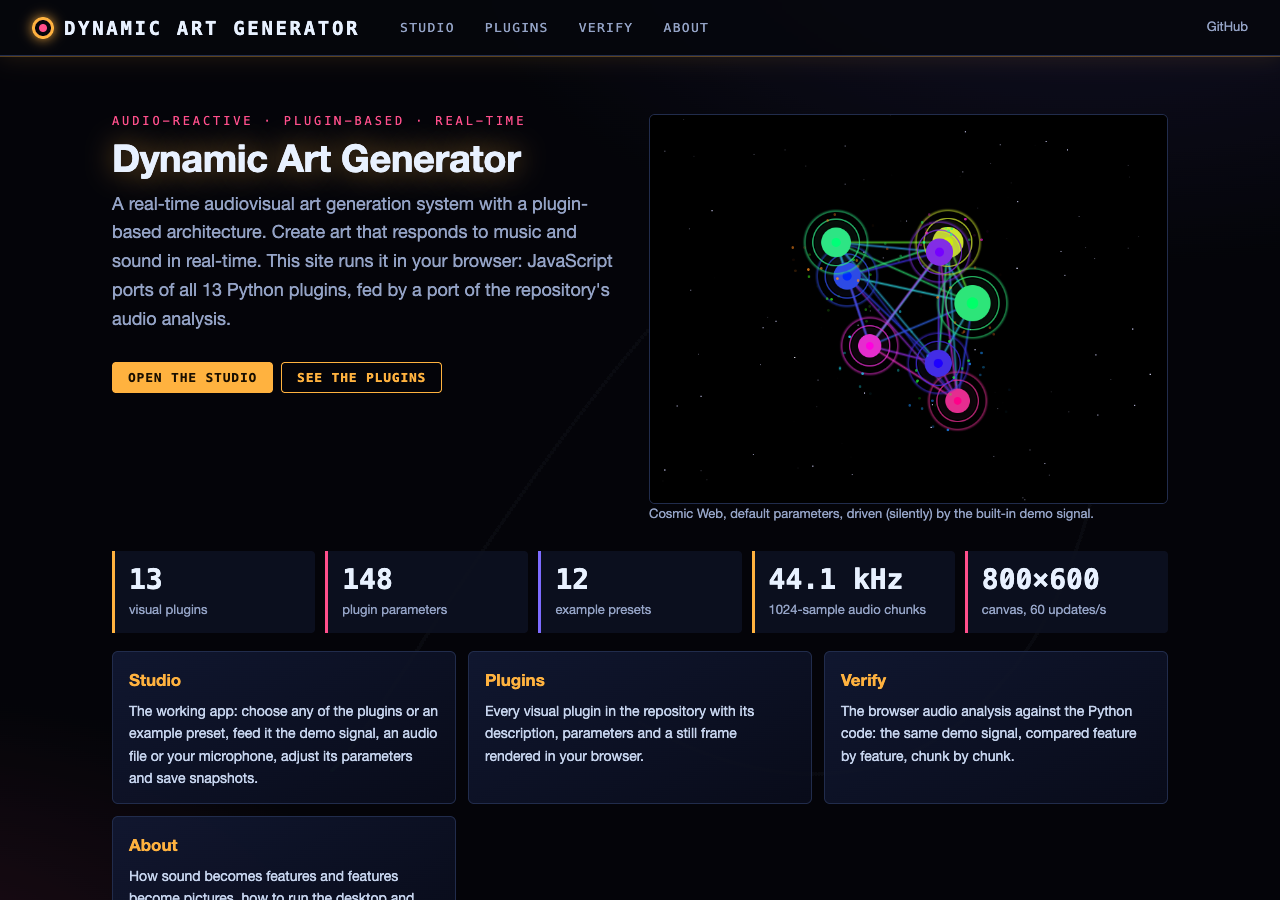
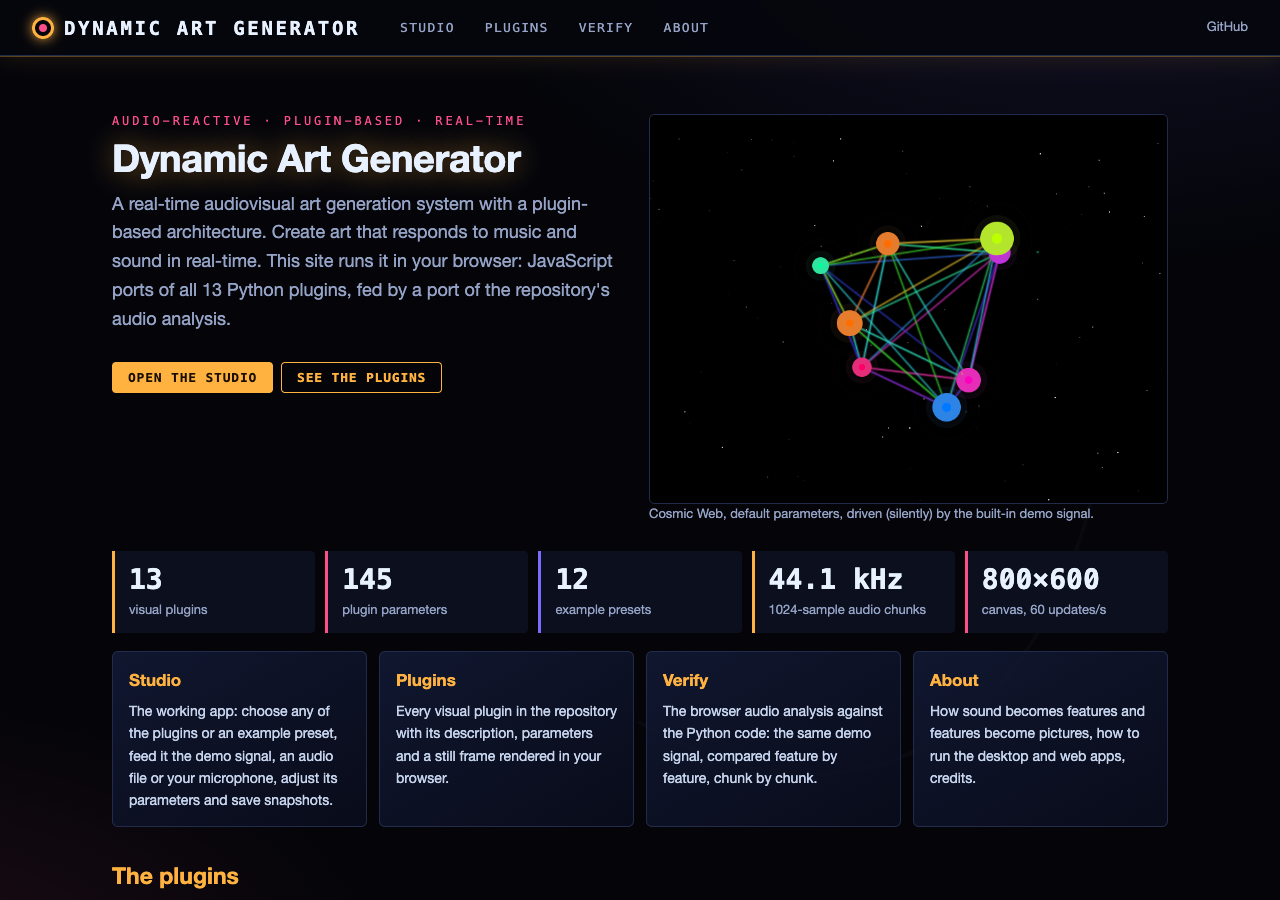
Update INTERFACE.md, SESSION_LOG.md and screenshots after the follow-up fixes

Changed region(s): [[0.0625, 0.7156, 0.9062, 1.0], [0.625, 0.2178, 0.8125, 0.4978]]

diff --git a/INTERFACE.md b/INTERFACE.md
@@ -18,7 +18,7 @@
 | `plugins/__init__.py` | `ArtPlugin` base class (update/render/get_parameters/set_parameter/reset), `PluginManager` |
 | `plugins/*.py` | 13 plugins: pendulum, particles, biomech_garden, cosmic_web, digital_spectre, ecosystem, musical_flock, neural_flow, noise_sphere, particle_fountain, quantum_jazz, rehoboam, space_junk |
 | `utils/audio_utils.py` | `AudioAnalyzer` (amplitude, rms, dominant frequency, bands, centroid, beats, onsets, tempo, ...), `DrumMachine`, `AudioSmoother` |
-| `utils/desktop_features.py` | `desktop_audio_features()`: what `AudioProcessor` hands the plugins (RMS amplitude, beat = RMS > 0.1, + AudioAnalyzer keys) |
+| `utils/desktop_features.py` | `desktop_audio_features()`: what `AudioProcessor` hands the plugins (RMS amplitude, adaptive AudioAnalyzer beat, + AudioAnalyzer keys) |
 | `utils/math_utils.py` | `Vector2D`, `ColorUtils`, `GeometryUtils` |
 | `config.json`, `example_presets.json` | Settings (canvas 800×600, 44.1 kHz, 1024-sample chunks); 12 presets |
 
@@ -44,7 +44,7 @@
 | File | Coverage |
 |------|----------|
 | `tests/test_web.py` | API, static build, node tests, fixtures current, every plugin ported, files < 500 lines (web) |
-| `tests/test_desktop_audio_features.py`, `test_particles_zero_life.py`, `test_plugin_fixes_*.py` (+ `plugin_test_utils.py`) | Regression tests for the fixed bugs |
+| `tests/test_desktop_audio_features.py`, `test_desktop_beats.py`, `test_particles_zero_life.py`, `test_ecosystem_prey_hue.py`, `test_plugin_fixes_*.py` (+ `plugin_test_utils.py`) | Regression tests for the fixed bugs |
 
 ## Data flow
 ```

diff --git a/SESSION_LOG.md b/SESSION_LOG.md
@@ -18,3 +18,13 @@
   unwired parameters (cosmic beat_amplification/color_variance, biomech enable_particle_effects, fountain
   turbulence/fade_trails, quantum quantum_coherence_time/beat_observation_strength, noise_sphere beat_sensitivity);
   Ecosystem prey hue overwrites the audio hue shift; fountain wind_force scale (0.15 × value) chosen by us.
+
+## 2026-11-11 (follow-up, George: "fix any other problems")
+- Desktop beat detection is now adaptive (AudioAnalyzer.detect_beat: energy above the 20-chunk running average + 1.5
+  std, 0.1 s refractory) instead of RMS > 0.1; same code path in Python and JS. Demo: 5 beats in 5.6 s instead of 240/240.
+- Last dead parameters: wired Cosmic Web beat_amplification, Particle Fountain turbulence, Quantum Jazz
+  quantum_coherence_time (now the documented 5 s, was hard-coded 2 s) and beat_observation_strength, Noise Sphere
+  beat_sensitivity; removed Cosmic Web color_variance, Bio-Mechanical Garden enable_particle_effects, Particle Fountain
+  fade_trails (nothing to control). 148 -> 145 parameters.
+- Musical Ecosystem prey hue now follows the audio (age hue + frequency/amplitude shift, like the predators).
+- Still open for George: the Particle Fountain wind_force scale (0.15 x value) is our choice.
